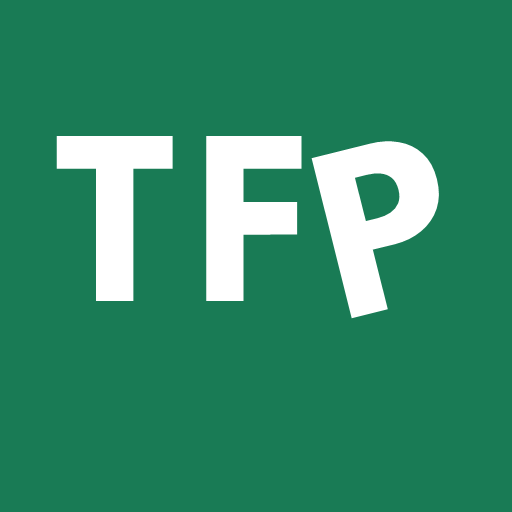
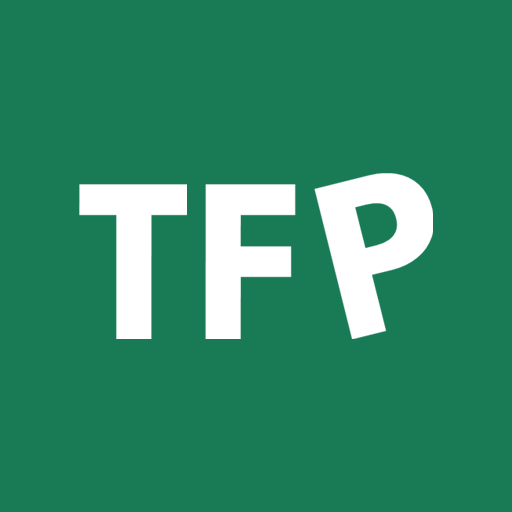
ログイン後UIの調整＋氏名分割＋ロゴ補正
①ログイン後LP：ヒーローを廃し「試験を選ぶ」から開始（LandingHero）
②ヘッダー：ログイン後はアイコンのみ。読込中は何も出さずフラッシュ防止。
  パス変更ごとに認証状態を再取得し、ログイン直後も即反映
③サインアップの氏名を「姓」「名」に分割（横並び）。
  API・user_metadata・profiles.sql・トリガーを姓/名対応に更新
④ロゴ再生成：TFPを縦横中央に配置し、Pの底辺をTFと揃える
  （各文字のピクセル境界をLockBitsで測定して合成）。全サイズ補正

Changed region(s): [[0.0938, 0.25, 0.875, 0.6875]]

diff --git a/components/SignupForm.jsx b/components/SignupForm.jsx
@@ -21,7 +21,8 @@ export default function SignupForm() {
   const [clientSecret, setClientSecret] = useState(null);
 
   const [form, setForm] = useState({
-    full_name: "",
+    last_name: "",
+    first_name: "",
     furigana: "",
     university: "",
     email: "",
@@ -35,7 +36,8 @@ export default function SignupForm() {
   }
 
   function validate() {
-    if (!form.full_name.trim()) return "氏名を入力してください。";
+    if (!form.last_name.trim()) return "姓を入力してください。";
+    if (!form.first_name.trim()) return "名を入力してください。";
     if (!form.furigana.trim()) return "フリガナを入力してください。";
     if (!form.university.trim()) return "ご所属の大学を入力してください。";
     if (!/^[^\s@]+@[^\s@]+\.[^\s@]+$/.test(form.email))
@@ -63,7 +65,8 @@ export default function SignupForm() {
         method: "POST",
         headers: { "Content-Type": "application/json" },
         body: JSON.stringify({
-          full_name: form.full_name.trim(),
+          last_name: form.last_name.trim(),
+          first_name: form.first_name.trim(),
           furigana: form.furigana.trim(),
           university: form.university.trim(),
           email: form.email.trim(),
@@ -204,14 +207,27 @@ export default function SignupForm() {
           メール認証完了後、これらの情報をご登録のアカウントに紐づけます。
         </div>
 
-        <div className="field">
-          <label>氏名（漢字）</label>
-          <input
-            value={form.full_name}
-            onChange={(e) => setField("full_name", e.target.value)}
-            required
-            autoComplete="name"
-          />
+        <div className="field-row">
+          <div className="field">
+            <label>姓（漢字）</label>
+            <input
+              value={form.last_name}
+              onChange={(e) => setField("last_name", e.target.value)}
+              required
+              autoComplete="family-name"
+              placeholder="例：山田"
+            />
+          </div>
+          <div className="field">
+            <label>名（漢字）</label>
+            <input
+              value={form.first_name}
+              onChange={(e) => setField("first_name", e.target.value)}
+              required
+              autoComplete="given-name"
+              placeholder="例：太郎"
+            />
+          </div>
         </div>
         <div className="field">
           <label>フリガナ（カタカナ）</label>

diff --git a/components/SiteHeader.jsx b/components/SiteHeader.jsx
@@ -2,20 +2,22 @@
 
 import Link from "next/link";
 import { useEffect, useState } from "react";
-import { useRouter } from "next/navigation";
+import { useRouter, usePathname } from "next/navigation";
 import { getSupabaseBrowser } from "@/lib/supabaseBrowser";
 import { SITE_NAME } from "@/lib/site";
 
 export default function SiteHeader() {
   const [me, setMe] = useState(null);
   const router = useRouter();
+  const pathname = usePathname();
 
   useEffect(() => {
+    // パスが変わるたびに認証状態を取り直す（ログイン直後にヘッダーを更新するため）
     fetch("/api/me")
       .then((r) => r.json())
       .then(setMe)
       .catch(() => setMe({ loggedIn: false, premium: false }));
-  }, []);
+  }, [pathname]);
 
   async function logout() {
     const supabase = getSupabaseBrowser();
@@ -34,12 +36,12 @@ export default function SiteHeader() {
         <span className="brand-name">{SITE_NAME}</span>
       </Link>
       <nav className="header-nav">
-        {me?.loggedIn ? (
-          <>
-            <Link href="/profile" className="profile-avatar" title="マイページ">
-              {initial}
-            </Link>
-          </>
+        {/* me の取得が終わるまでは何も出さない（ログイン済みユーザーに
+            「会員登録/ログイン」が一瞬見えるのを防ぐ） */}
+        {me == null ? null : me.loggedIn ? (
+          <Link href="/profile" className="profile-avatar" title="マイページ">
+            {initial}
+          </Link>
         ) : (
           <>
             <Link href="/signup" className="header-upgrade">

diff --git a/components/LandingHero.jsx b/components/LandingHero.jsx
@@ -14,25 +14,9 @@ export default function LandingHero() {
       .catch(() => setMe({ loggedIn: false, premium: false }));
   }, []);
 
-  // ログイン済みユーザーには CTA を出さない（既に会員 or 無料体験中）
+  // ログイン済みユーザーにはヒーローを出さず、「試験を選ぶ」セクションから始める
   if (me?.loggedIn) {
-    return (
-      <section className="hero">
-        <span className="hero-badge">GMAP(LT)・TG-WEB・玉手箱・SPI3 対応</span>
-        <h1>
-          {me.premium ? "今日も学習を始めましょう。" : "おかえりなさい。"}
-        </h1>
-        <p>
-          {me.premium
-            ? "前回の続きから取り組むのもよし、苦手分野の復習もおすすめです。下の試験一覧からお選びください。"
-            : "下の試験一覧からお選びください。"}
-        </p>
-        <div className="hero-cta">
-          <a href="#exams" className="btn">試験を選ぶ</a>
-          <Link href="/profile" className="btn secondary">マイページ</Link>
-        </div>
-      </section>
-    );
+    return null;
   }
 
   // 未ログイン（または取得中）の通常表示

diff --git a/app/api/signup/start/route.js b/app/api/signup/start/route.js
@@ -25,12 +25,13 @@ export async function POST(req) {
     return NextResponse.json({ error: "不正なリクエストです。" }, { status: 400 });
   }
 
-  const full_name = String(body.full_name || "").trim();
+  const last_name = String(body.last_name || "").trim();
+  const first_name = String(body.first_name || "").trim();
   const furigana = String(body.furigana || "").trim();
   const university = String(body.university || "").trim();
   const email = String(body.email || "").trim();
 
-  if (!full_name || !furigana || !university || !email) {
+  if (!last_name || !first_name || !furigana || !university || !email) {
     return NextResponse.json({ error: "必須項目が未入力です。" }, { status: 400 });
   }
   if (!/^[^\s@]+@[^\s@]+\.[^\s@]+$/.test(email)) {
@@ -83,7 +84,8 @@ export async function POST(req) {
     },
     metadata: {
       email,
-      full_name,
+      last_name,
+      first_name,
       furigana,
       university,
     },

diff --git a/app/api/signup/complete/route.js b/app/api/signup/complete/route.js
@@ -90,7 +90,9 @@ export async function POST(req) {
     password,
     email_confirm: false,
     user_metadata: {
-      full_name: md.full_name || "",
+      last_name: md.last_name || "",
+      first_name: md.first_name || "",
+      full_name: `${md.last_name || ""} ${md.first_name || ""}`.trim(),
       furigana: md.furigana || "",
       university: md.university || "",
     },

diff --git a/app/globals.css b/app/globals.css
@@ -658,6 +658,10 @@ h2 { font-size: 17px; margin: 0 0 12px; }
 }
 .field input:focus { outline: none; border-color: var(--brand); }
 
+/* 姓・名の横並び */
+.field-row { display: flex; gap: 12px; }
+.field-row .field { flex: 1; }
+
 /* Googleログインボタン */
 .google-btn {
   display: flex;
